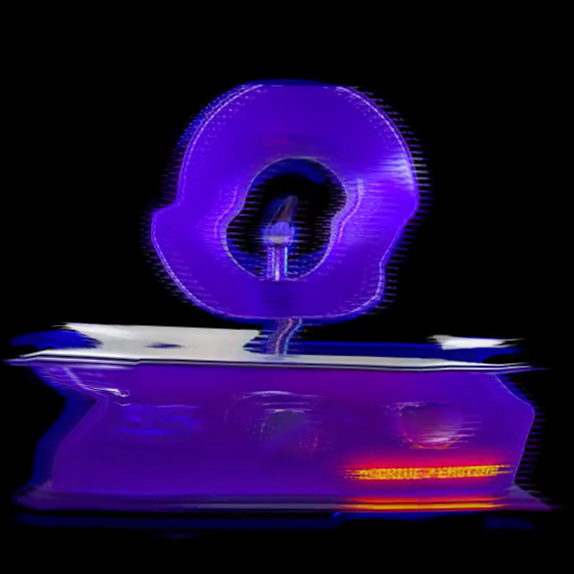
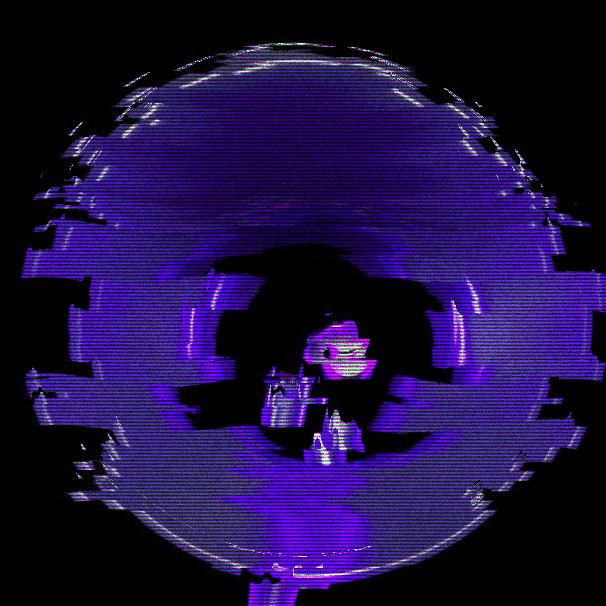
timer to make chill songs more subtle

diff --git a/scripts.js b/scripts.js
@@ -4,16 +4,16 @@ var vPrev = document.getElementById("video-prev");
 var vNext = document.getElementById("video-next");
 var canvas = document.getElementById("c");
 var lightsCanvas = document.getElementById("l");
-var context = canvas.getContext("2d");
+var context = canvas.getContext("2d", { willReadFrequently: true });
 var back = document.createElement("canvas");
-var backcontext = back.getContext("2d");
+var backcontext = back.getContext("2d", { willReadFrequently: true });
 var transCanvas = document.getElementById("cX");
-var cXcontext = transCanvas.getContext("2d");
+var cXcontext = transCanvas.getContext("2d", { willReadFrequently: true });
 var audioContext = new AudioContext();
 var audioSrc = audioContext.createMediaElementSource(a);
 var active = 0;
 
-var cw, ch, cx, scale;
+var cw, ch, cx, scale, active;
 
 function fitCanvas() {
   cw = window.innerWidth;
@@ -206,7 +206,8 @@ const content = {
           audioSrc.connect(analyser);
           analyser.connect(audioContext.destination);
           analyser.fftSize = 32;
-          drawVideo(v, context, backcontext, cXcontext);
+          drawVideo(v, context, backcontext, cXcontext, Date.now());
+          bumpVideo(canvas, transCanvas);
           audioContext.resume();
           playMusic();
       },
@@ -228,14 +229,8 @@ const content = {
     function pauseMusic() {
       a.pause();
     }
-    
-    function drawVideo(v, c, bc, cx, a) {
 
-      fitCanvas();
-      scale = canvas.height;
-
-      cloneLights(lightsCanvas);
-
+    function bumpVideo(c, cx) {
       // audio analyser
       const bufferLength = analyser.frequencyBinCount;
       const freqArray = new Uint8Array(bufferLength);
@@ -243,7 +238,6 @@ const content = {
 
       const waveArray = new Float32Array(bufferLength);
       analyser.getFloatTimeDomainData(waveArray);
-
 
       var maximum;
 
@@ -260,6 +254,54 @@ const content = {
       }
       var offset = convertRange(waveArray[0], [0, 1], [0 , maximum]);
 
+      var freq;
+
+      if (active == 3) {
+        freq = 100;
+      } else 
+      {
+        freq = 5000;
+      }
+
+      c.style.left = offset + "px";
+      cx.style.left = -offset + "px";
+
+      // Start over!
+      setTimeout(function () {
+        bumpVideo(c, cx);
+      }, freq);
+    }
+    
+    function drawVideo(v, c, bc, cx, start) {
+
+      fitCanvas();
+      scale = canvas.height;
+
+      cloneLights(lightsCanvas);
+
+      // // audio analyser
+      // const bufferLength = analyser.frequencyBinCount;
+      // const freqArray = new Uint8Array(bufferLength);
+      // analyser.getByteFrequencyData(freqArray);
+
+      // const waveArray = new Float32Array(bufferLength);
+      // analyser.getFloatTimeDomainData(waveArray);
+
+      // var maximum;
+
+      // if (content.songs[active].maxOffset === 0 )
+      // {
+      //   maximum = 6;
+
+      // } else {
+      //   maximum = canvas.width/4;
+      // }
+    
+      // function convertRange( value, r1, r2 ) { 
+      //   return ( value - r1[ 0 ] ) * ( r2[ 1 ] - r2[ 0 ] ) / ( r1[ 1 ] - r1[ 0 ] ) + r2[ 0 ];
+      // }
+      // var offset = convertRange(waveArray[0], [0, 1], [0 , maximum]);
+
       back.width = canvas.width;
       back.height = canvas.height;
       if (v.paused || v.ended) return false;
@@ -271,6 +313,7 @@ const content = {
         bumper = (canvas.height - canvas.width)/2;
       }
 
+
       
       // First, draw it into the backing canvases
       bc.drawImage(v, 0, 0, scale, scale);
@@ -280,24 +323,18 @@ const content = {
       var glitchData = idata.data;
       // Loop through the pixels, turning them grayscale
       for (var i = 0; i < glitchData.length; i += 4) {
-        // var r = glitchData[i];
-        // var g = glitchData[i+1];
-        // var b = glitchData[i+2];
-        // var brightness = (3*r+4*g+b)>>>3;
-        // glitchData[i] = brightness;
-        // glitchData[i+1] = brightness;
-        // glitchData[i+2] = brightness;
+        // alter pixels here
       }
       idata.data = data;
       // Draw the pixels onto the visible canvas
-      c.putImageData(idata, (bumper + offset), 0);
-      cx.putImageData(idata, (bumper - offset), 0);
+      c.putImageData(idata, (bumper), 0);
+      cx.putImageData(idata, (bumper), 0);
 
 
       
       // Start over!
       setTimeout(function () {
-        drawVideo(v, c, bc, cx);
+        drawVideo(v, c, bc, cx, start);
       }, 0);
     }
 
@@ -334,6 +371,7 @@ const content = {
     }
 
     function play(songId) {      
+      active = songId;
       v.src = content.songs[songId].video;
       a.src = content.songs[songId].audio;
       v.play();
@@ -368,7 +406,7 @@ var CURVE_POINT_MAX_FLOAT_Y_DIST = 80;
 var CURVE_POINT_MIN_FLOAT_DIST = 15;
 var CURVE_POINT_MAX_FLOAT_TIME = 9000; // longest a curve point can take to get to next keyframe
 var CURVE_POINT_MIN_FLOAT_TIME = 3000; // shortest a curve point can take to get to next keyframe
-var BRUSH_COUNT = 150;
+var BRUSH_COUNT = 100;
 var BRUSH_WIDTH = 100;
 var BRUSH_HEIGHT = 500;
 var BRUSH_MIN_SCALE_Y = .02;

diff --git a/styles.scss b/styles.scss
@@ -54,6 +54,7 @@
     line-height: 1.5rem;
     width: 100vw;
     height: 100vh;
+    font-size: 16px;
   }
   
   body {
@@ -67,6 +68,7 @@
     left: 0;
     overflow: hidden;
     display: block;
+    
   }
   
   canvas {
@@ -106,6 +108,8 @@
         transform: rotate(180deg);
         opacity: 1;
     }
+
+
   }
 
   #reset {
@@ -130,7 +134,12 @@
     &.active {
       display: block;
     }
+
+
   }
+
+
+  
   
   #ui {
 
@@ -145,13 +154,13 @@
     margin: 0;
     padding: 0;
     opacity: 0;
-    transform: translate3d(0, - 2rem, 0);
+    // transform: translate3d(0, - 2rem, 0);
     transition: 1s all ease-in-out;
     pointer-events: none;
 
     &.active {
         opacity: 1;
-        transform: translate3d(0, 0, 0);
+        // transform: translate3d(0, 0, 0);
         pointer-events: all;
     }
 
@@ -355,4 +364,45 @@ canvas.lights{
 
 #cX {
   mix-blend-mode: lighten;
+}
+
+
+
+@media (max-width: 768px) {
+  html {
+
+  }
+
+  #text h1 {
+    padding: 1rem 1rem 0rem 1rem;
+  }
+  #text #animated-text, #screen-reader {
+    padding: 0 1.5rem 1rem 1rem;
+
+      br {
+        display: block;
+        margin: 1.5rem 0;
+        content: "";
+      }
+
+  }
+  #text-modal {
+    width: calc(100vw + 2rem);
+
+  }
+  #text-wrapper {
+    margin-right: 4rem;
+  }
+  canvas {
+
+  }
+
+
+}
+
+@media handheld and (orientation: landscape) {
+
+}
+@media handheld and (orientation: portrait) and (max-width: 768px) {
+
 }

diff --git a/styles.css b/styles.css
@@ -54,6 +54,7 @@ html {
   line-height: 1.5rem;
   width: 100vw;
   height: 100vh;
+  font-size: 16px;
 }
 
 body {
@@ -144,13 +145,11 @@ canvas {
   margin: 0;
   padding: 0;
   opacity: 0;
-  transform: translate3d(0, -2rem, 0);
   transition: 1s all ease-in-out;
   pointer-events: none;
 }
 #ui.active {
   opacity: 1;
-  transform: translate3d(0, 0, 0);
   pointer-events: all;
 }
 
@@ -332,6 +331,29 @@ canvas.lights.flipped {
 
 #cX {
   mix-blend-mode: lighten;
+}
+
+@media (max-width: 768px) {
+  #text h1 {
+    padding: 1rem 1rem 0rem 1rem;
+  }
+
+  #text #animated-text, #screen-reader {
+    padding: 0 1.5rem 1rem 1rem;
+  }
+  #text #animated-text br, #screen-reader br {
+    display: block;
+    margin: 1.5rem 0;
+    content: "";
+  }
+
+  #text-modal {
+    width: calc(100vw + 2rem);
+  }
+
+  #text-wrapper {
+    margin-right: 4rem;
+  }
 }
 
 /*# sourceMappingURL=styles.css.map */

diff --git a/index.html b/index.html
@@ -4,7 +4,8 @@
     <link rel="stylesheet" href="styles.css" />
     <link rel="stylesheet" href="https://use.typekit.net/gyn3oyz.css">
     <script src="https://unpkg.com/typewriter-effect@latest/dist/core.js"></script>
-    
+    <meta name="viewport" content="width=device-width, initial-scale=1">
+
   </head>
   <body>
     <button id="menu-toggle" onclick="toggleMenu()"></button>
